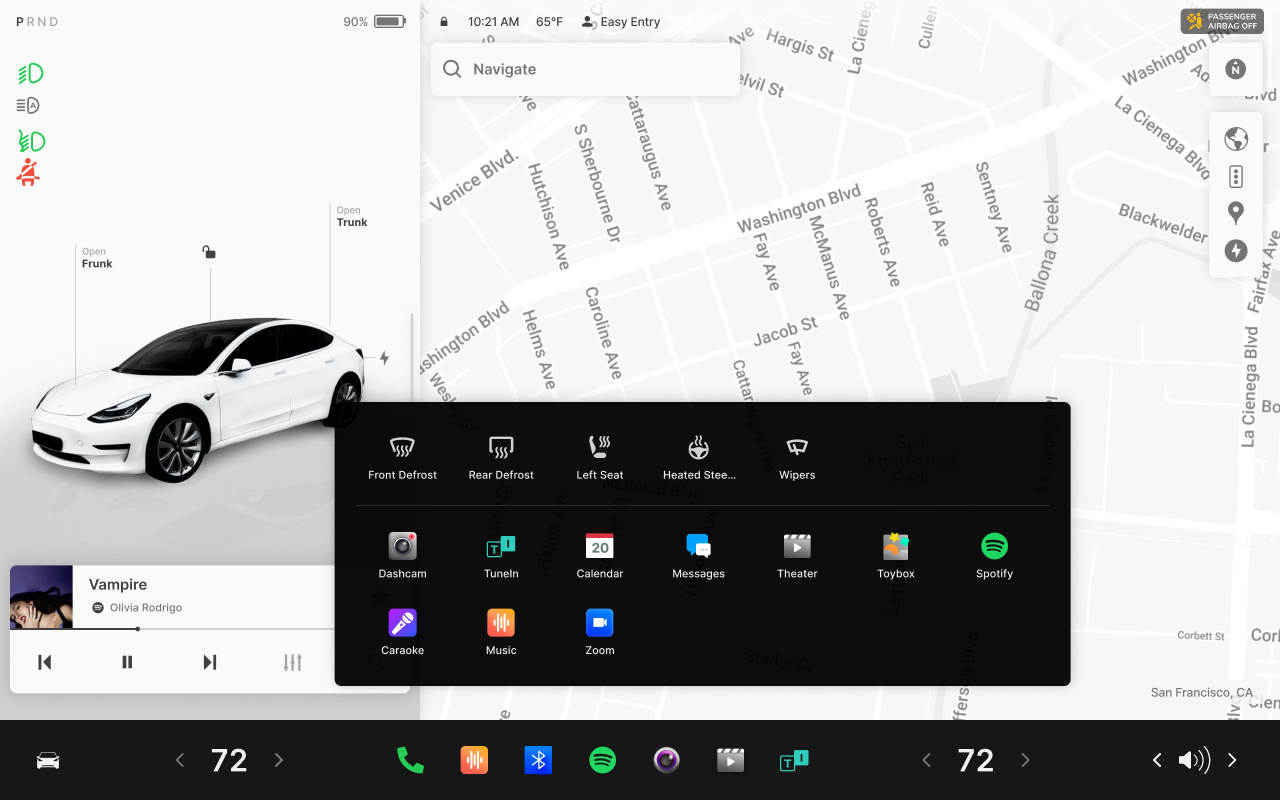
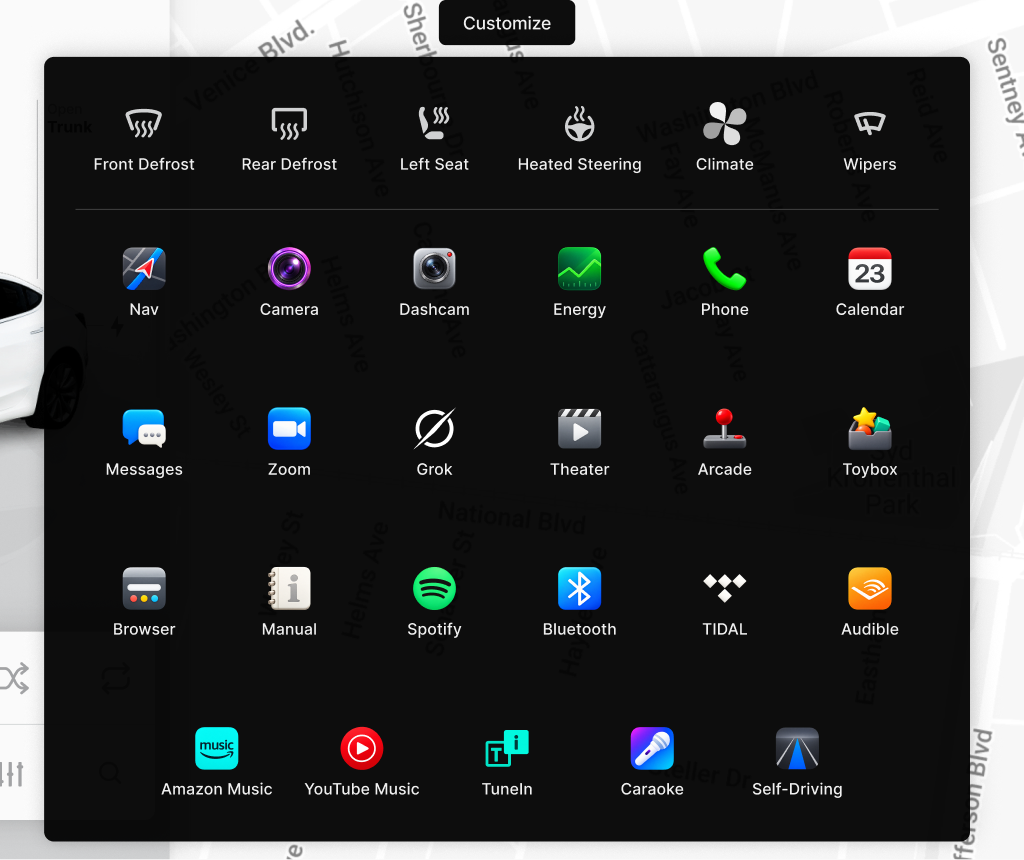
Quick Actions: new Figma content (4300:2105)
Customize button on top (press only, no action yet), Climate fan tile, 23 apps in rows
6/6/6/5 with new PNG pictograms (resized to 192px), panel 944 wide. App Tile padding 12/4
per the component.

diff --git a/src/overlays/QuickActions/QuickActions.tsx b/src/overlays/QuickActions/QuickActions.tsx
@@ -1,19 +1,33 @@
 import { motion } from 'motion/react';
 import defrostFront from '../../assets/climate/defrost-front.svg';
 import defrostRear from '../../assets/climate/defrost-rear.svg';
+import fan from '../../assets/climate/fan.svg';
 import seatHeat from '../../assets/climate/seat-heat.svg';
 import steeringHeat from '../../assets/climate/steering-heat.svg';
 import wipers from '../../assets/climate/wipers.svg';
-import dashcam from '../../assets/apps/dashcam.svg';
-import tunein from '../../assets/apps/tunein.svg';
-import calendar from '../../assets/apps/calendar.svg';
-import messages from '../../assets/apps/messages.svg';
-import theater from '../../assets/apps/theater.svg';
-import toybox from '../../assets/apps/toybox.svg';
-import spotify from '../../assets/apps/spotify.svg';
-import caraoke from '../../assets/apps/caraoke.svg';
-import music from '../../assets/apps/music.svg';
-import zoom from '../../assets/apps/zoom.svg';
+import navArt from '../../assets/apps/qa/nav.png';
+import cameraArt from '../../assets/apps/qa/camera.png';
+import dashcamArt from '../../assets/apps/qa/dashcam.png';
+import energyArt from '../../assets/apps/qa/energy.png';
+import phoneArt from '../../assets/apps/qa/phone.png';
+import calendarArt from '../../assets/apps/qa/calendar.png';
+import messagesArt from '../../assets/apps/qa/messages.png';
+import zoomArt from '../../assets/apps/qa/zoom.png';
+import grokArt from '../../assets/apps/qa/grok.png';
+import theaterArt from '../../assets/apps/qa/theater.png';
+import arcadeArt from '../../assets/apps/qa/arcade.png';
+import toyboxArt from '../../assets/apps/qa/toybox.png';
+import browserArt from '../../assets/apps/qa/browser.png';
+import manualArt from '../../assets/apps/qa/manual.png';
+import spotifyArt from '../../assets/apps/qa/spotify.png';
+import bluetoothArt from '../../assets/apps/qa/bluetooth.png';
+import tidalArt from '../../assets/apps/qa/tidal.png';
+import audibleArt from '../../assets/apps/qa/audible.png';
+import amazon_musicArt from '../../assets/apps/qa/amazon-music.png';
+import youtube_musicArt from '../../assets/apps/qa/youtube-music.png';
+import tuneinArt from '../../assets/apps/qa/tunein.png';
+import caraokeArt from '../../assets/apps/qa/caraoke.png';
+import self_drivingArt from '../../assets/apps/qa/self-driving.png';
 import { AppTile } from '../../components/AppTile/AppTile';
 import { Icon } from '../../components/Icon/Icon';
 import { useHud, type ClimateAction } from '../../state/store';
@@ -25,61 +39,105 @@ const CLIMATE: { id: ClimateAction; label: string; src: string }[] = [
   { id: 'rearDefrost', label: 'Rear Defrost', src: defrostRear },
   { id: 'leftSeat', label: 'Left Seat', src: seatHeat },
   { id: 'heatedSteering', label: 'Heated Steering', src: steeringHeat },
+  { id: 'climate', label: 'Climate', src: fan },
   { id: 'wipers', label: 'Wipers', src: wipers },
 ];
 
-const APPS = [
-  { label: 'Dashcam', src: dashcam },
-  { label: 'TuneIn', src: tunein },
-  { label: 'Calendar', src: calendar },
-  { label: 'Messages', src: messages },
-  { label: 'Theater', src: theater },
-  { label: 'Toybox', src: toybox },
-  { label: 'Spotify', src: spotify },
-  { label: 'Caraoke', src: caraoke },
-  { label: 'Music', src: music },
-  { label: 'Zoom', src: zoom },
+/**
+ * Apps in Figma order (rows of 6 / 6 / 6 / 5). `art` = the pictogram's "Artwork / X" PNG inside its 48px clip:
+ * left, top, size (each artwork overhangs the canvas a little, as drawn).
+ */
+const APPS: { label: string; src: string; art: [number, number, number] }[] = [
+  { label: 'Nav', src: navArt, art: [-11.46, -11.46, 70.92] },
+  { label: 'Camera', src: cameraArt, art: [-6.18, -5.91, 60.5] },
+  { label: 'Dashcam', src: dashcamArt, art: [-3.81, -3.57, 55.621] },
+  { label: 'Energy', src: energyArt, art: [-11.4, -11.37, 70.738] },
+  { label: 'Phone', src: phoneArt, art: [-6.58, -7.64, 61.649] },
+  { label: 'Calendar', src: calendarArt, art: [-2.03, -2.03, 52.053] },
+  { label: 'Messages', src: messagesArt, art: [-2.64, -2.97, 51.955] },
+  { label: 'Zoom', src: zoomArt, art: [-3.64, -3.67, 55.287] },
+  { label: 'Grok', src: grokArt, art: [-1.6, -1.33, 51.231] },
+  { label: 'Theater', src: theaterArt, art: [-8.37, -8.26, 64.685] },
+  { label: 'Arcade', src: arcadeArt, art: [-2.12, -2.35, 52.201] },
+  { label: 'Toybox', src: toyboxArt, art: [-4.98, -4.54, 57.958] },
+  { label: 'Browser', src: browserArt, art: [-4.16, -4.25, 56.36] },
+  { label: 'Manual', src: manualArt, art: [-5.18, -5.48, 58.264] },
+  { label: 'Spotify', src: spotifyArt, art: [-2.87, -3.53, 53.778] },
+  { label: 'Bluetooth', src: bluetoothArt, art: [-2.94, -2.85, 53.83] },
+  { label: 'TIDAL', src: tidalArt, art: [-2.22, -5.32, 52.449] },
+  { label: 'Audible', src: audibleArt, art: [-4.22, -4.2, 56.533] },
+  { label: 'Amazon Music', src: amazon_musicArt, art: [-3.21, -3.6, 54.414] },
+  { label: 'YouTube Music', src: youtube_musicArt, art: [-0.24, -0.67, 48.485] },
+  { label: 'TuneIn', src: tuneinArt, art: [-5.73, -6.27, 59.457] },
+  { label: 'Caraoke', src: caraokeArt, art: [-2.57, -2.68, 53.105] },
+  { label: 'Self-Driving', src: self_drivingArt, art: [-4.21, -4.24, 56.475] },
 ];
+const ROW = 6;
+
+/** pictogram/app/* (Figma): fixed-colour artwork clipped to 48px. */
+function Pictogram({ src, art: [left, top, size] }: { src: string; art: [number, number, number] }) {
+  return (
+    <span className={styles.pictogram}>
+      <img src={src} alt="" style={{ left, top, width: size, height: size }} />
+    </span>
+  );
+}
 
 /**
- * Figma "Quick Actions" (4273:450): launcher above the dock, pinned Dark.
+ * Figma "Quick Actions" (4273:450, in 4300:2105): launcher over the map, pinned Dark. Customize button on top
+ * (does nothing yet — press feedback only), then 6 climate toggles, a divider and 23 apps, the last row centred.
  * Opens with Move in from bottom, duration/base + easing/enter. Climate tiles toggle; app tiles press only.
  */
 export function QuickActions() {
   const climate = useHud((s) => s.climate);
   const toggleClimate = useHud((s) => s.toggleClimate);
+  const rows = Array.from({ length: Math.ceil(APPS.length / ROW) }, (_, i) => APPS.slice(i * ROW, i * ROW + ROW));
   return (
     <motion.div
-      className={styles.panel}
+      className={styles.root}
       data-mode="dark"
       role="dialog"
       aria-label="Quick actions"
       // `transform` (not `y`) so motion runs the slide on the compositor — full frame rate on iPad (perf, 9.5)
-      initial={{ transform: 'translateY(476px)' }}
+      initial={{ transform: 'translateY(876px)' }}
       animate={{ transform: 'translateY(0px)', transition: transition.open }}
-      exit={{ transform: 'translateY(476px)', transition: transition.close }}
+      exit={{ transform: 'translateY(876px)', transition: transition.close }}
     >
-      <div className={styles.grid}>
-        {CLIMATE.map((c) => (
-          <AppTile
-            key={c.id}
-            label={c.label}
-            active={climate[c.id]}
-            onPress={() => toggleClimate(c.id)}
-            icon={
-              <Icon
-                src={c.src}
-                color={climate[c.id] ? 'var(--color-icon-active)' : 'var(--color-icon-strong)'}
-              />
-            }
-          />
-        ))}
-      </div>
-      <span className={styles.divider} />
-      <div className={styles.grid}>
-        {APPS.map((a) => (
-          <AppTile key={a.label} label={a.label} icon={<img src={a.src} alt="" width={48} height={48} />} />
-        ))}
+      <motion.button
+        type="button"
+        className={`${styles.customize} text-body-l`}
+        whileTap={{ scale: 0.96 }}
+        transition={transition.press}
+      >
+        Customize
+      </motion.button>
+      <div className={styles.panel}>
+        <div className={styles.row}>
+          {CLIMATE.map((c) => (
+            <AppTile
+              key={c.id}
+              label={c.label}
+              active={climate[c.id]}
+              onPress={() => toggleClimate(c.id)}
+              icon={
+                <Icon
+                  src={c.src}
+                  color={climate[c.id] ? 'var(--color-icon-active)' : 'var(--color-icon-strong)'}
+                />
+              }
+            />
+          ))}
+        </div>
+        <span className={styles.divider} />
+        <div className={styles.apps}>
+          {rows.map((row, i) => (
+            <div key={i} className={styles.row}>
+              {row.map((a) => (
+                <AppTile key={a.label} label={a.label} icon={<Pictogram src={a.src} art={a.art} />} />
+              ))}
+            </div>
+          ))}
+        </div>
       </div>
     </motion.div>
   );

diff --git a/src/overlays/QuickActions/QuickActions.module.css b/src/overlays/QuickActions/QuickActions.module.css
@@ -1,10 +1,34 @@
-/* 1104×426 at (502, 603): centred over the dock, 51px above the control bar */
-.panel {
+/* 944×858 at (502, 204), 18px above the control bar (4300:2105): Customize button, 12 gap, the actions panel */
+.root {
   position: absolute;
   left: 502px;
-  bottom: 51px;
-  width: 1104px;
-  height: 426px;
+  bottom: 18px;
+  width: 944px;
+  display: flex;
+  flex-direction: column;
+  align-items: center;
+  gap: var(--space-12);
+}
+
+.customize {
+  position: relative;
+  padding: var(--space-12) var(--space-24);
+  border: none;
+  border-radius: var(--radius-md);
+  background: var(--color-surface-glass);
+  color: var(--color-content-primary);
+  white-space: nowrap;
+}
+
+/* Figma button is 46px tall; grow the hit area to the 64px touch minimum */
+.customize::before {
+  content: '';
+  position: absolute;
+  inset: calc((46px - var(--size-touch-min)) / 2) 0;
+}
+
+.panel {
+  align-self: stretch;
   display: flex;
   flex-direction: column;
   gap: var(--space-24);
@@ -16,14 +40,34 @@
   color: var(--color-content-primary);
 }
 
-.grid {
+/* 6 × 140 tiles, 8 apart = 880; a short last row stays centred */
+.row {
   display: flex;
-  flex-wrap: wrap;
-  gap: var(--space-16) var(--space-8);
+  justify-content: center;
+  gap: var(--space-8);
+}
+
+.apps {
+  display: flex;
+  flex-direction: column;
+  gap: var(--space-64);
 }
 
 .divider {
   height: 1px;
   flex: none;
   background: var(--color-border-subtle);
+}
+
+.pictogram {
+  position: relative;
+  flex: none;
+  width: 48px;
+  height: 48px;
+  overflow: hidden;
+}
+
+.pictogram img {
+  position: absolute;
+  max-width: none;
 }

diff --git a/src/state/store.ts b/src/state/store.ts
@@ -39,7 +39,7 @@ export const linkDock = (patch: Partial<WidgetDock>): WidgetDock => {
   return right ? { panel: 'map', full: 'right' } : DEFAULT_DOCK;
 };
 
-export type ClimateAction = 'frontDefrost' | 'rearDefrost' | 'leftSeat' | 'heatedSteering' | 'wipers';
+export type ClimateAction = 'frontDefrost' | 'rearDefrost' | 'leftSeat' | 'heatedSteering' | 'climate' | 'wipers';
 
 /** Settings nav tree pages (Figma Navtree 4258:39). 6a: search, controls. 6b: pedals, display, lights. */
 export const SETTINGS_PAGES = [
@@ -213,7 +213,7 @@ export const useHud = create<HudState>()((set) => ({
   toggleQuickActions: () =>
     set((s) => ({ ...closeAll(s), quickActions: !s.quickActions })),
   closeOverlays: () => set((s) => closeAll(s)),
-  climate: { frontDefrost: false, rearDefrost: false, leftSeat: false, heatedSteering: false, wipers: false },
+  climate: { frontDefrost: false, rearDefrost: false, leftSeat: false, heatedSteering: false, climate: false, wipers: false },
   toggleClimate: (a) => set((s) => ({ climate: { ...s.climate, [a]: !s.climate[a] } })),
 
   settingsOpen: false,

diff --git a/src/components/AppTile/AppTile.module.css b/src/components/AppTile/AppTile.module.css
@@ -4,7 +4,7 @@
   flex-direction: column;
   align-items: center;
   gap: var(--space-8);
-  padding: var(--space-12);
+  padding: var(--space-12) var(--space-4); /* Figma 12 / 4 — room for "Heated Steering" */
   border-radius: var(--radius-md);
   color: var(--color-content-primary);
   transition: background-color var(--duration-instant) linear;

diff --git a/docs/WORKLOG.md b/docs/WORKLOG.md
@@ -57,6 +57,7 @@ Running record of feedback, decisions, discussions and learnings. Newest entries
 | Q8 | Car status top bar | ✅ Not intentional. Status bar elements keep the same size on every screen; on expand/collapse they only move and hide/reveal |
 
 ## Decisions
+- 2026-10-29 — Quick Actions refresh (Anastasiya changed `4300:2105`): Customize button on top (dark glass, `text-body-l`, press only — does nothing yet, per Anastasiya), panel 944 wide at x 502, 18 above the control bar (was 1104 / 51); climate row adds **Climate** (fan, `assets/climate/fan.svg`, toggle `climate`); apps are now 23 in rows 6/6/6/5, last row centred, 64 row gap. New pictograms are Figma PNG artwork (1254² → resized to 192, 680KB total) placed per the "Artwork / X" offset inside the 48 clip. App Tile padding 12 / 4 per the component (was 12 all round; the picker is unchanged — tiles are 140 fixed). `design-ref/quick-actions-light.png` replaced with the new frame; the old dark ref is outdated.
 - 2026-10-29 — P9.6 move from the Collapsed rail (`4923:59013`). Collapsed + docked on the map, the bar is a full bar again (pull-up / Customize / swipe-down / move); only the rail chicklet stays inert (taps fall through → Panel). Move fields: the map spot + the rail field 88×232 at (20, 802) in the 116 rail; the 220 Driving rail has no sketch → 180×218 at (20, 846), under Start Self-Driving. Drop in the rail → `widgetDock` back to panel (linked, so Panel / Full follow) and the rail chicklet pops in. `MoveSpot` now carries its field rect, and targeting measures against each field's own size (the rail field is narrow). Kept the map spot at 1134 (anchored right, 2026-10-29) though the sketch draws the card ≈728. Not built: moving the rail chicklet out onto the map (no sketch — expand the panel and move it there). Gestures 116/116 (7 new). Reviewers: fidelity + function PASS (lows only: card 4% bigger = the pop scale; rail catch generous — card centre up to ~430 still lands in the rail, kept per the "close is enough" rule).
 - 2026-10-28 — P9.4 move widget. The bar left the car panel: `WidgetBar/WidgetLayer.tsx` is a stage-level layer above the panel (left slot) holding the bar, the move fields and the Customize editor, all in display px (= panel coords, the panel starts at 0,0). Collapsed rail chicklet taps fall through (layer `pointer-events: none` there). Store `widgetDock: { panel: 'panel'|'map', full: 'left'|'right' }`, saved in localStorage (`hud.widgetDock`), `?widgetDock=map,right` (URL wins). Geometry in CarPanel/geometry.ts: `widgetBarRect` (map dock = map left + 16 + trip card 464 + 24 → 1134,854 in Panel; follows the map edge when collapsed), `tripCardRect` (Full shuffle: bar 448 / card 1072 ⇄ card 448 / bar 872, gap 24 not Figma's 14), `moveSpots` (Full target beside the card where it is now, so it runs off-screen like Figma). Gesture: usePullUp's `pop` hand-off — after the reveal snap, ≥60 finger px further + 0.3s hold → `move.ts` popOut: the card springs up under the finger (springSnap), scales to 1.04 with overshoot, a second `--elevation-panel` fades in under it; `customize='moving'` (Done replaces Customize; `?customize=moving`). Before the pop the extra pull stretches it to 1.015 ("socket" tension). The bar itself moves (offset motion values, no ghost); a drop that changes the dock jumps the base rect and rebases the offset (layout effect) so it settles from under the finger; view / Parked ⇄ Driving changes still morph with transition.screen. Targeting uses where the finger has the card, not the card mid catch-up. Fields: 581×180 `--color-surface-sunken` @ 0.6, the one it would drop into → 1 (no sketch for that; it just firms up). 21 new `npm run gestures` checks; the 8.1 "holds at the lift" check now pulls −140 (−260 + hold is the pop gesture now).
 - 2026-10-28 — P9.3 map peek (`components/MapPeek/`): live `MapImagery` (tile images, now shared with the main map — extracted from MapTiles) + `RouteLayer` in a 694×698 box at (1383, −197) (Q30 midpoint), masked with Figma's own blurred radial ellipse (`assets/map/peek-mask.svg`) on the outer box. Map rotated −14.3° and scaled 0.6 about the car, car at display (1626, 125) like Figma's arrow. Mask grown to 125% toward the lower left after review (the box grows with it — box = mask, else the box clips the map in hard lines) — the midway box sat ~90px higher than Light's and put the ellipse's opaque core off-screen (peek read faint and small). Fades with the Panel ⇄ Full morph (transition.screen), inert outside Full, behind the car scene; a tap (or a drag, which ends in a click — same as a left drag anywhere in Full) → Panel. Routed ⇔ Driving in this app (Q13), so the routed peek appears behind the Driving Full scene.

diff --git a/docs/COMPONENTS.md b/docs/COMPONENTS.md
@@ -40,7 +40,7 @@ One row per built component. Check here before reading Figma: if it's listed, it
 | Car Render Scene=Driving | `4479:49839` | `src/components/CarPanel/DrivingScene.tsx` | ✅ P4 | Road lines, beam, lead + ego car; % layout scales Panel → Full |
 | Speed + Speed Limit Sign + compact Direction Primary | in Car Status Panel (Driving) | `src/components/CarPanel/SpeedCluster.tsx` | ✅ P4 | Enlarged in the 220 rail |
 | Chicklet (Music / Odometer / Tire) | `4596:70708` / `70712` / `70716` | `WidgetBar.tsx` (`chicklet="large"`) | ✅ P4 | Driving collapsed rail |
-| Quick Actions | `4273:450` | `src/overlays/QuickActions/` | ✅ P5 | Pinned dark; climate tiles toggle |
+| Quick Actions | `4273:450` (in `4300:2105`) | `src/overlays/QuickActions/` | ✅ P5 · updated 2026-10-29 | Pinned dark; Customize button (no action yet); 6 climate toggles (+ Climate fan); 23 apps 6/6/6/5, PNG pictograms `assets/apps/qa/` (192px, cropped per Figma artwork) |
 | App Tile | `4231:398` | `src/components/AppTile/` | ✅ P5 | Default / Pressed; On = blue glyph (Q14) |
 | Settings Window + Navtree + Settings Panel | `4258:39` / `4275:556` | `src/overlays/Settings/` | ✅ P6a | Pages registered in `SettingsWindow.tsx` PAGES; nav items in `navItems.ts` |
 | Tile / Tile Group | `4231:164` / `4231:385` | `src/components/settings/Tiles.tsx` | ✅ P6a | TileChoice (single) · TileToggles · ToggleTile (On / Active) |
